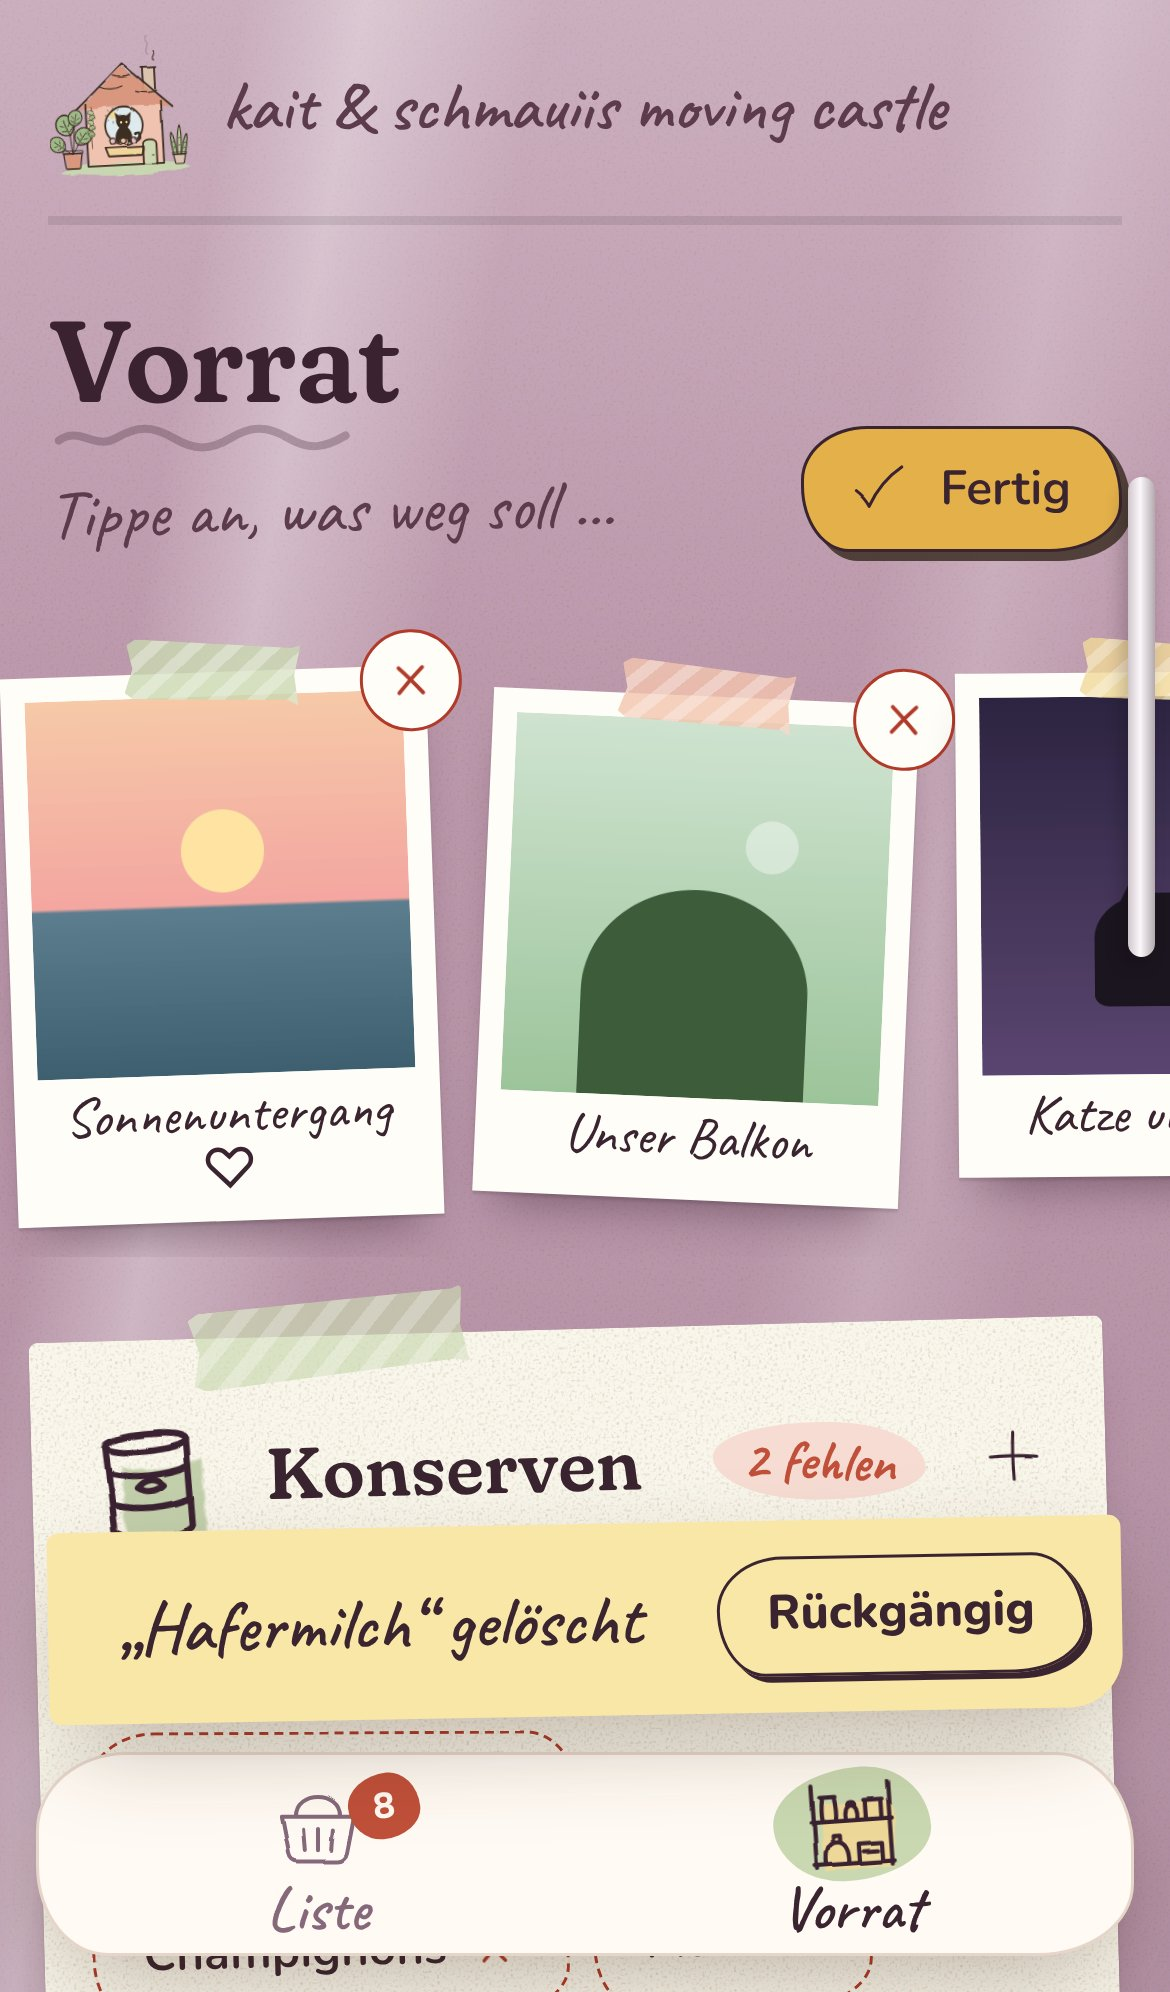
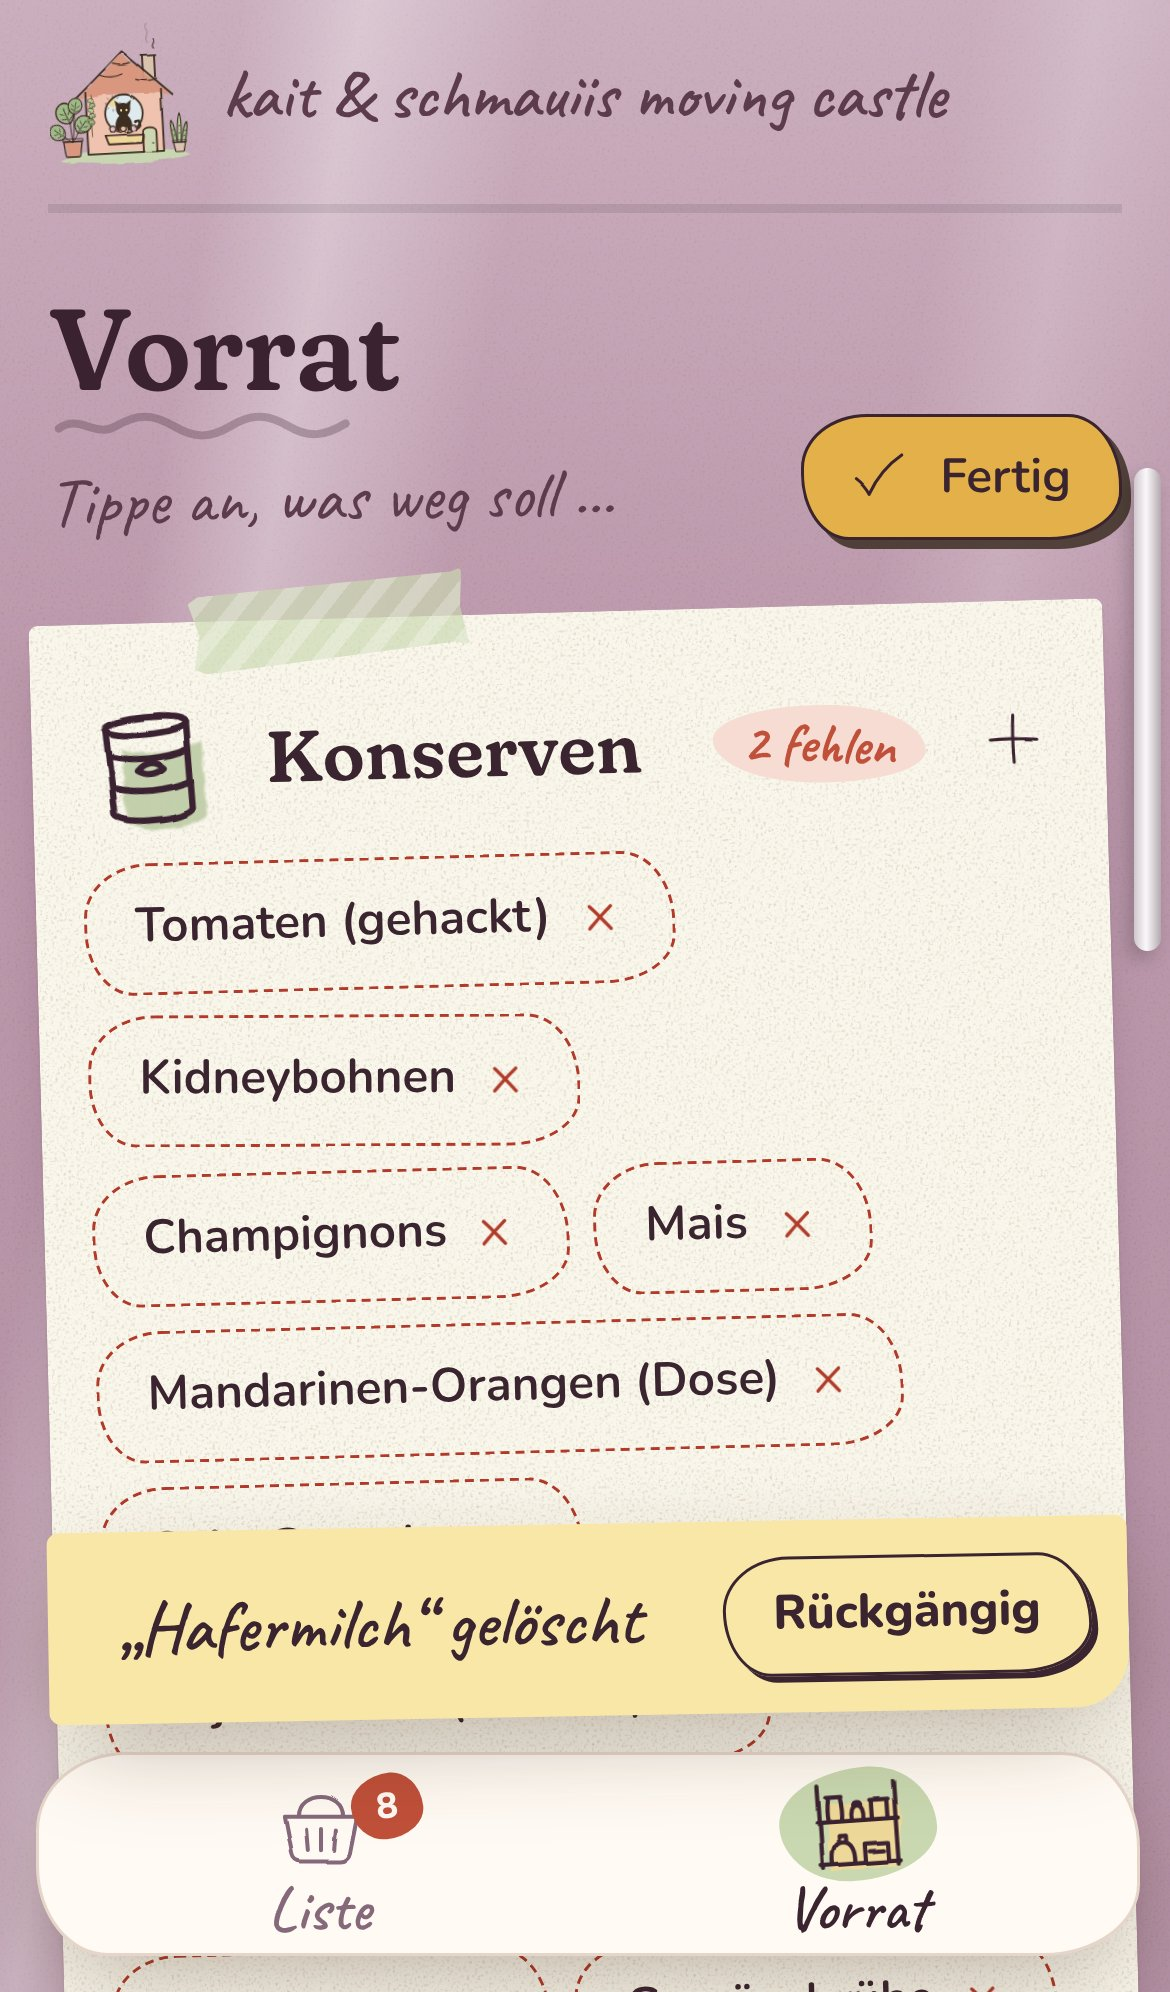
Entwurf: Polaroids hängen zwischen den Zetteln statt oben
Claude-Session: https://claude.ai/code/session_01Fx5K8h3bs4kPbkgKprSYLH

diff --git a/public/css/components.css b/public/css/components.css
@@ -562,32 +562,23 @@
 @media (min-width: 1100px) { .card__title { font-size: 1.3rem; } }
 .card__header > .badge, .card__header > .btn { flex: 0 0 auto; }
 
-/* ---------- Fotowand (Polaroids, js/ui/photos.js) ---------- */
-.photo-wall { margin: 0 calc(-1 * var(--space-4)) var(--space-5); }
-.photo-wall__strip {
-  display: flex;
-  gap: var(--space-4);
-  align-items: flex-start;
-  overflow-x: auto;
-  padding: var(--space-4) var(--space-4) var(--space-3);
-  scroll-snap-type: x proximity;
-  scrollbar-width: none;
-}
-.photo-wall__strip::-webkit-scrollbar { display: none; }
-
+/* ---------- Polaroids zwischen den Zetteln (js/ui/photos.js) ---------- */
 .polaroid {
   position: relative;
   flex: 0 0 auto;
-  width: 142px;
-  margin: 0;
+  z-index: 2;
+  width: 150px;
   padding: 8px 8px 0;
   background: #fffdf8;
-  box-shadow: 0 1px 1px rgb(0 0 0 / 0.12), 0 10px 16px -8px rgb(40 15 30 / 0.45);
-  scroll-snap-align: start;
-  rotate: -2deg;
+  box-shadow: 0 1px 1px rgb(0 0 0 / 0.12), 0 12px 18px -8px rgb(40 15 30 / 0.5);
 }
-.polaroid:nth-child(even) { rotate: 2.5deg; margin-top: 8px; }
-.polaroid:nth-child(3n) { rotate: -0.5deg; }
+/* abwechselnd rechts und links, etwas über die Zettelkanten geklebt */
+.cards > .polaroid { display: block; margin-top: calc(-1 * var(--space-6)); margin-bottom: calc(-1 * var(--space-4)); }
+.cards > .polaroid--right { margin-left: auto; margin-right: -6px; rotate: 4deg; }
+.cards > .polaroid--left  { margin-right: auto; margin-left: -6px; rotate: -3.5deg; }
+.cards > .polaroid:nth-of-type(3n) { rotate: -6deg; }
+.cards > .polaroid--add, .cards > .polaroid--draft { margin-left: auto; margin-right: auto; rotate: -2deg; }
+.cards > .polaroid--draft { rotate: 0deg; }
 /* Tape oben */
 .polaroid::before {
   content: "";
@@ -639,7 +630,7 @@
 .polaroid__remove .art { width: 18px; height: 18px; stroke-width: 3.4; }
 
 /* "+ Foto"-Kachel */
-.polaroid--add { background: rgb(255 253 248 / 0.55); box-shadow: none; outline: 2px dashed color-mix(in srgb, var(--on-fridge) 35%, transparent); outline-offset: -2px; }
+.polaroid--add { width: 120px; background: rgb(255 253 248 / 0.55); box-shadow: none; outline: 2px dashed color-mix(in srgb, var(--on-fridge) 35%, transparent); outline-offset: -2px; }
 .polaroid--add::before { display: none; }
 .polaroid--add .polaroid__photo {
   background: transparent;
@@ -687,12 +678,18 @@
 @keyframes fade-in { from { opacity: 0; } }
 
 @media (min-width: 700px) {
-  .photo-wall { margin-left: 0; margin-right: 0; }
-  .photo-wall__strip { padding-left: var(--space-2); flex-wrap: wrap; overflow: visible; }
-  .polaroid { width: 150px; }
+  .polaroid { width: 165px; }
 }
 
 /* Plus-Knopf fest oben rechts im Zettel, damit Titel und Zähler Platz haben */
 .card:not(.card--note) > .card__header { padding-right: 44px; position: relative; }
 .card:not(.card--note) > .card__header > .btn--ghost.btn--icon { position: absolute; right: -6px; top: 50%; translate: 0 -50%; }
 .card:not(.card--note) > .card__header > .btn--danger.btn--icon { margin-left: auto; }
+
+/* Handy: Polaroids kleiner und stärker überlappend, damit keine großen Lücken entstehen */
+@media (max-width: 699px) {
+  .cards > .polaroid { width: 128px; margin-top: -46px; margin-bottom: -6px; }
+  .cards > .polaroid--right { margin-right: 4px; }
+  .cards > .polaroid--left { margin-left: 4px; }
+  .cards > .polaroid .polaroid__caption { font-size: 1.05rem; min-height: 28px; }
+}

diff --git a/public/js/ui/photos.js b/public/js/ui/photos.js
@@ -1,4 +1,4 @@
-// Fotowand: eure Fotos als Polaroids an der Kühlschranktür.
+// Fotos: eure Polaroids, die zwischen den Zetteln an der Kühlschranktür hängen.
 //   - "+ Foto" öffnet Kamera/Galerie, das Bild wird im Browser verkleinert
 //     (max. 1600 px, JPEG) und ohne Ortsdaten hochgeladen.
 //   - Antippen = groß ansehen. Im Bearbeiten-Modus: abnehmen (löschen).
@@ -11,20 +11,19 @@ import { icon } from './art.js';
 const MAX_SIZE = 1600;
 const draft = { blob: null, url: null, caption: '', busy: false };
 
-/** Die Fotoleiste. editMode = Löschen erlaubt. */
-export function photoWall(state, ctx, { editMode = false } = {}) {
-  const photos = state.photos || [];
-  const tiles = photos.map((photo, i) => polaroid(photo, i, editMode));
-
-  if (draft.blob) tiles.push(draftCard(ctx));
-  else tiles.push(addTile(ctx, photos.length === 0));
-
-  return h('section', { class: 'photo-wall', 'aria-label': 'Fotos' },
-    h('div', { class: 'photo-wall__strip' }, tiles));
+/**
+ * Liefert die Polaroids einzeln (zum Verteilen zwischen den Zetteln, siehe vorrat.js)
+ * und die Kachel zum Hinzufügen bzw. das Formular für ein neues Foto.
+ * editMode = Fotos können abgenommen werden.
+ */
+export function photoTiles(state, ctx, { editMode = false } = {}) {
+  const photos = (state.photos || []).map((photo, i) => polaroid(photo, i, editMode));
+  const adder = draft.blob ? draftCard(ctx) : addTile(ctx, photos.length === 0);
+  return { photos, adder };
 }
 
 function polaroid(photo, i, editMode) {
-  return h('figure', { class: 'polaroid', 'data-tone': (i % 6) + 1, style: null },
+  return h('figure', { class: ['polaroid', i % 2 ? 'polaroid--left' : 'polaroid--right'], 'data-tone': (i % 6) + 1 },
     h('button', {
       type: 'button',
       class: 'polaroid__photo',

diff --git a/public/js/views/vorrat.js b/public/js/views/vorrat.js
@@ -4,7 +4,7 @@
 import { h, sameName } from '../util.js';
 import { viewHeader, categoryHeader, loading, toneOf, iconLabel } from '../ui/components.js';
 import { icon, PICKABLE } from '../ui/art.js';
-import { photoWall } from '../ui/photos.js';
+import { photoTiles } from '../ui/photos.js';
 import { setMissing, addItem, deleteItem, restoreItem, addCategory, deleteCategory } from '../store.js';
 import { showToast } from '../ui/toast.js';
 import { CONFIG } from '../config.js';
@@ -47,7 +47,18 @@ export default {
     const cards = state.categories.map((cat) =>
       categoryCard(cat, state.items.filter((i) => i.categoryId === cat.id), ctx));
 
-    return [header, photoWall(state, ctx, { editMode: ui.editMode }), h('div', { class: 'cards' }, cards, newCategoryCard(ctx))];
+    // Polaroids zwischen die Zettel hängen: nach jedem 2. Zettel eins
+    const { photos, adder } = photoTiles(state, ctx, { editMode: ui.editMode });
+    const board = [];
+    cards.forEach((card, i) => {
+      board.push(card);
+      if (i % 2 === 0 && photos.length) board.push(photos.shift());
+      if (i === 0 && !photos.length) board.push(adder);  // "+ Foto" weit oben, solange es wenige Fotos gibt
+    });
+    board.push(...photos);
+    if (!board.includes(adder)) board.push(adder);
+
+    return [header, h('div', { class: 'cards' }, board, newCategoryCard(ctx))];
   },
 };
 
